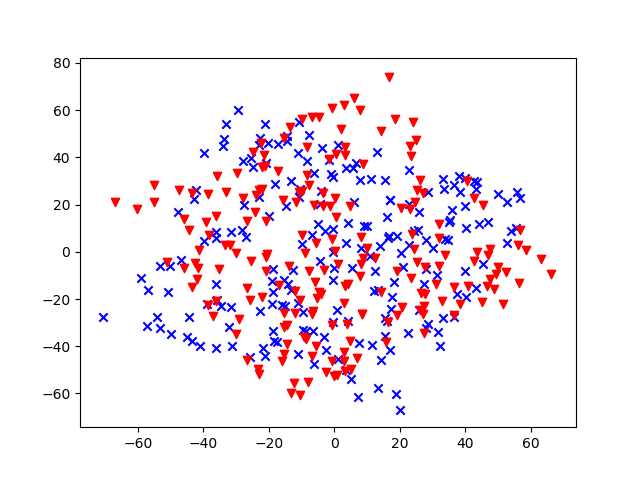
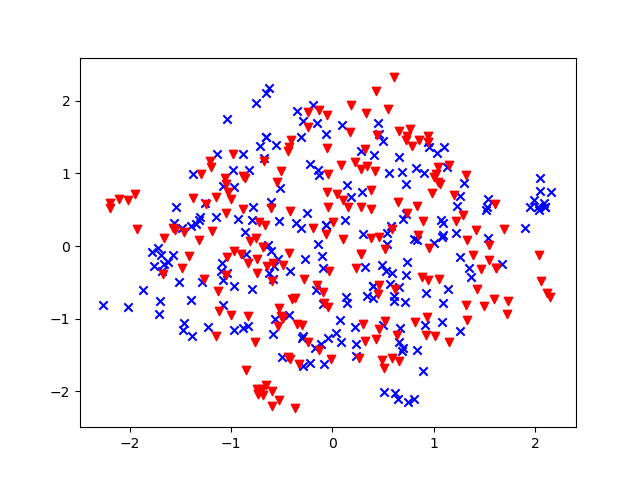
edit+modif procrust

diff --git a/procrust.py b/procrust.py
@@ -37,10 +37,14 @@ plt.show()
 
 #%%
 #centrage de la matricce
-x =  x - x.mean(axis=1)[:,np.newaxis]
+moy=x.mean(axis=1)[:,np.newaxis]
+x =  x - moy
 
 X1=R1@x
 X2=R2@x
+
+X1=X1/x.std()
+X2=X2/x.std()
 
 plt.figure()
 plt.scatter(X1[0,:], X1[1,:], c='b', marker='x')
@@ -58,10 +62,12 @@ _,U2=LA.eig(X2@X2.T)
 #plt.scatter(newX[0,:], newX[1,:], c='m', marker='p')
 
 newX  = U2@U1.T@X1
+
 plt.figure()
-plt.scatter(X1[0,:], X1[1,:], c='b', marker='x')
-plt.scatter(X2[0,:], X2[1,:], c='r', marker='v')
-plt.scatter(newX[0,:], newX[1,:], c='k', marker='p')
+plt.scatter(X1[0,:], X1[1,:], c='b', marker='x', label='X1')
+plt.scatter(X2[0,:], X2[1,:], c='r', marker='v', label='X2')
+plt.scatter(newX[0,:], newX[1,:], c='k', marker='p', label='X1 after')
+plt.legend()
 plt.show()
 
 

diff --git a/resume.md b/resume.md
@@ -257,13 +257,44 @@ On peut illustrer ces différentes étapes avec l'image ci-dessous
 
 ### Application
 
-On a implémenté une fonction pour génerer un exemple d'alignement de procrust en python dans le fichier **procrust.py**, on a suivit 4 étapes:
+On a implémenté une fonction pour génerer un exemple d'alignement de procrust en python dans le fichier **procrust.py**, on a suivit 5 étapes:
 
 1. On a définit une distribution de points x de manière aléatoire.
 
-2. On a appliquer une matrce de rotation sur x pour obtenir 2 distribution distincts:
-<img align="center" src="https://latex.codecogs.com/svg.latex?\Large&space;\begin{pmatrix}\cos(\theta)&-\sin(\theta)\\\sin(\theta)&\cos(\theta)\end{pmatrix}"/>
+2. On a appliquer une matrice de rotation sur x pour obtenir 2 distribution distincts:
+	<img src="https://latex.codecogs.com/svg.latex?\Large&space;\begin{pmatrix}\cos(\theta)&-\sin(\theta)\\\sin(\theta)&\cos(\theta)\end{pmatrix}"/>
 
+```
+def M_rotate(teta):
+     R=np.array([[np.cos(teta), -np.sin(teta)],
+                 [np.sin(teta), np.cos(teta)]])
+     return(R)
+# Génération des matrices de point 2D en colonnes
+x=np.random.randint(101, size=(2,200))
+
+#Orientation des données de 45° et -45°
+R1=M_rotate(20)
+R2=M_rotate(-45)
+
+X1=R1@x
+X2=R2@x
+```
+<img src="https://github.com/EstelleAlemy/algo_deformation/blob/master/image/distribution.png"/>
+
+3. On centre les distributions
+<img src="https://github.com/EstelleAlemy/algo_deformation/blob/master/image/dist_centre.png"/>
+
+4. On calcule les vecteur propres des matrices de covariancese de X1 et X2
+```
+_,U1=LA.eig(X1@X1.T)
+_,U2=LA.eig(X2@X2.T)
+```
+
+5. On applique la rotation: ici on fait une rotation de la distribution X1(bleu) vers X2(rouge)
+'''
+newX  = U2@U1.T@X1
+'''
+<img src="https://github.com/EstelleAlemy/algo_deformation/blob/master/image/rotaion.png"/>
 
 
 
